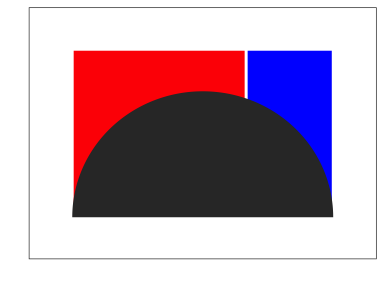
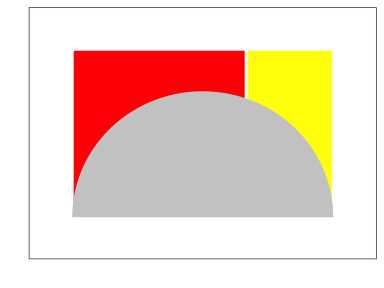
brighten the colors

Changed region(s): [[0.1875, 0.1562, 0.875, 0.7812]]

diff --git a/README.md b/README.md
@@ -43,7 +43,7 @@ plt <-
   geom_rect(mapping = aes(xmin = 2, xmax = 3, 
                           ymin = 0, ymax = 2),
             alpha   = 1,
-            fill    = 'blue',
+            fill    = 'yellow',
             color   = 'white', 
             size    = 1)
 plt
@@ -62,7 +62,7 @@ crcl <-
   )
 plt <-
   plt +
-  geom_polygon(aes(x = x, y = y), crcl) 
+  geom_polygon(aes(x = x, y = y), crcl, fill = 'gray80') 
 plt
 ```
 
@@ -76,7 +76,7 @@ plt <-
   geom_rect(mapping = aes(xmin = 0, xmax = 2, 
                           ymin = 0, ymax = 2),
             alpha   = 0.5,
-            fill    = 'blue',
+            fill    = 'yellow',
             color   = 'white', 
             size    = 1) +
   geom_rect(mapping = aes(xmin = 2, xmax = 3, 
